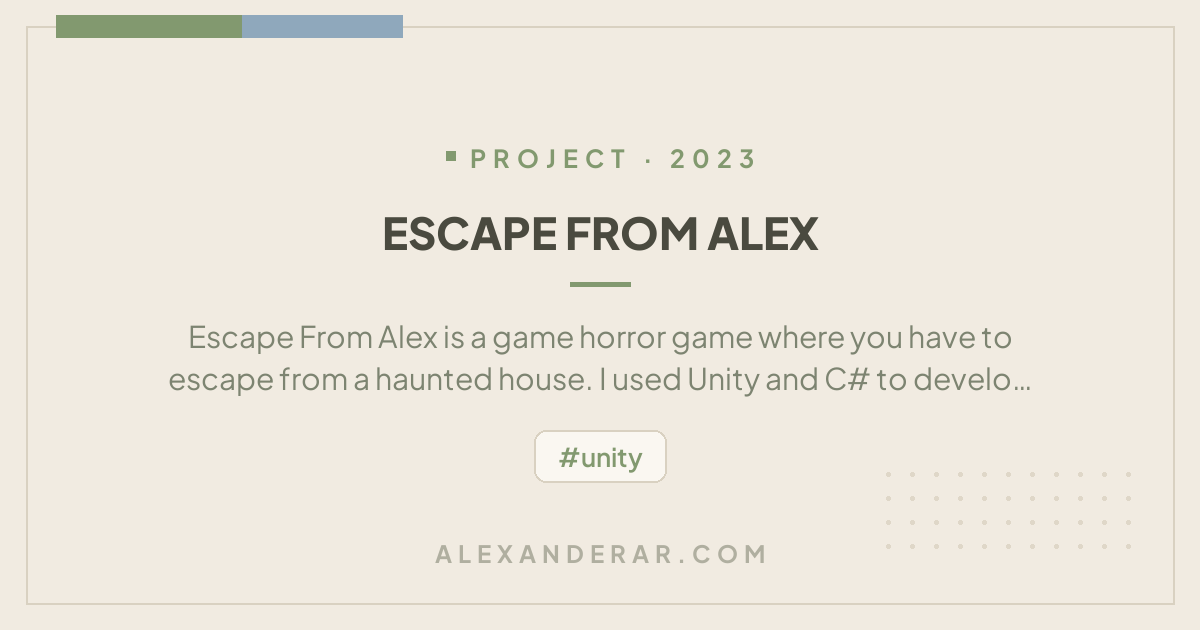
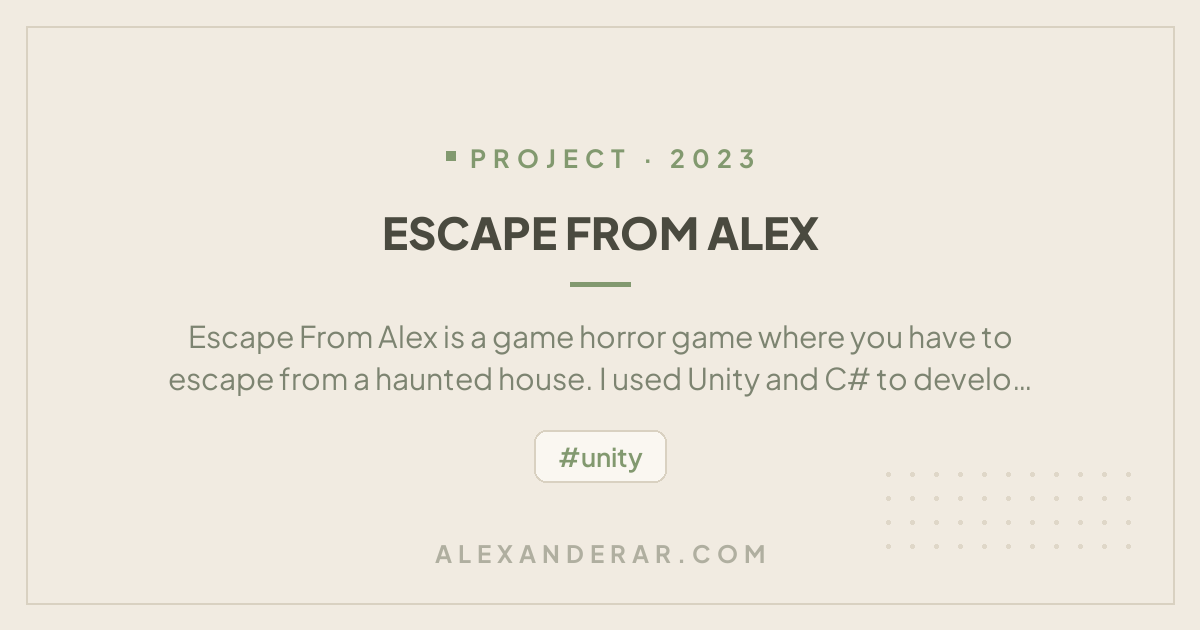
fix(deploy): rename worker to dodge the stale build integration
Every push made Cloudflare Workers Builds redeploy the old
"alexanderar-com" worker with an empty bundle, clobbering the live
site (404). That name is owned by the stale git integration; move
deploys to a fresh "alexanderar-site" worker and take the custom
domains with it, so integration pushes can no longer touch the site.
Also drop the OG accent bars and add a one-shot `bun run deploy`.

Amp-Thread-ID: https://ampcode.com/threads/T-01a10003-01f7-708f-845f-fc405ab7fa1c

Changed region(s): [[0.0308, 0.0, 0.3392, 0.0603]]

diff --git a/scripts/generate-og.py b/scripts/generate-og.py
@@ -63,7 +63,6 @@ OLIVE = (125, 132, 113)      # --olive     #7D8471
 STONE = (176, 175, 160)      # --stone     #B0AFA0
 LINE = (217, 209, 193)       # --line      #D9D1C1
 SAGE_DEEP = (130, 153, 111)  # --sage-deep #82996F
-BLUE = (143, 168, 188)       # --blue      #8FA8BC
 CHIP_BG = (250, 247, 241)    # near-white, like the reference tag chip
 
 
@@ -107,14 +106,11 @@ def draw_tracked(draw: ImageDraw.ImageDraw, text: str, font: ImageFont.FreeTypeF
 
 
 def background() -> Image.Image:
-    """Flat beige card, thin frame, accent bars, and a subtle dot grid."""
+    """Flat beige card, thin frame, and a subtle dot grid."""
     img = Image.new("RGB", (W, H), BG)
     draw = ImageDraw.Draw(img)
     inset = 26
     draw.rectangle([inset, inset, W - inset, H - inset], outline=LINE, width=2)
-    # accent bars sitting on the top frame line, left-aligned
-    draw.rectangle([56, 15, 246, 37], fill=SAGE_DEEP)
-    draw.rectangle([242, 15, 402, 37], fill=BLUE)
     # subtle dot grid, bottom-right corner (flat, low contrast)
     for gy in range(H - 156, H - 62, 24):
         for gx in range(W - 312, W - 70, 24):

diff --git a/README.md b/README.md
@@ -34,7 +34,7 @@ bun run dev        # http://localhost:3000
 
 ```bash
 bun run build      # fetch GitHub snapshot + generate OG images + typecheck + prerender
-bun run deploy:worker   # wrangler deploy (serves ./dist/client via Workers assets)
+bun run deploy     # build + wrangler deploy (serves ./dist/client via Workers assets)
 ```
 
 Prerendered output lives in `dist/client/`; `wrangler.jsonc` points the Worker's
